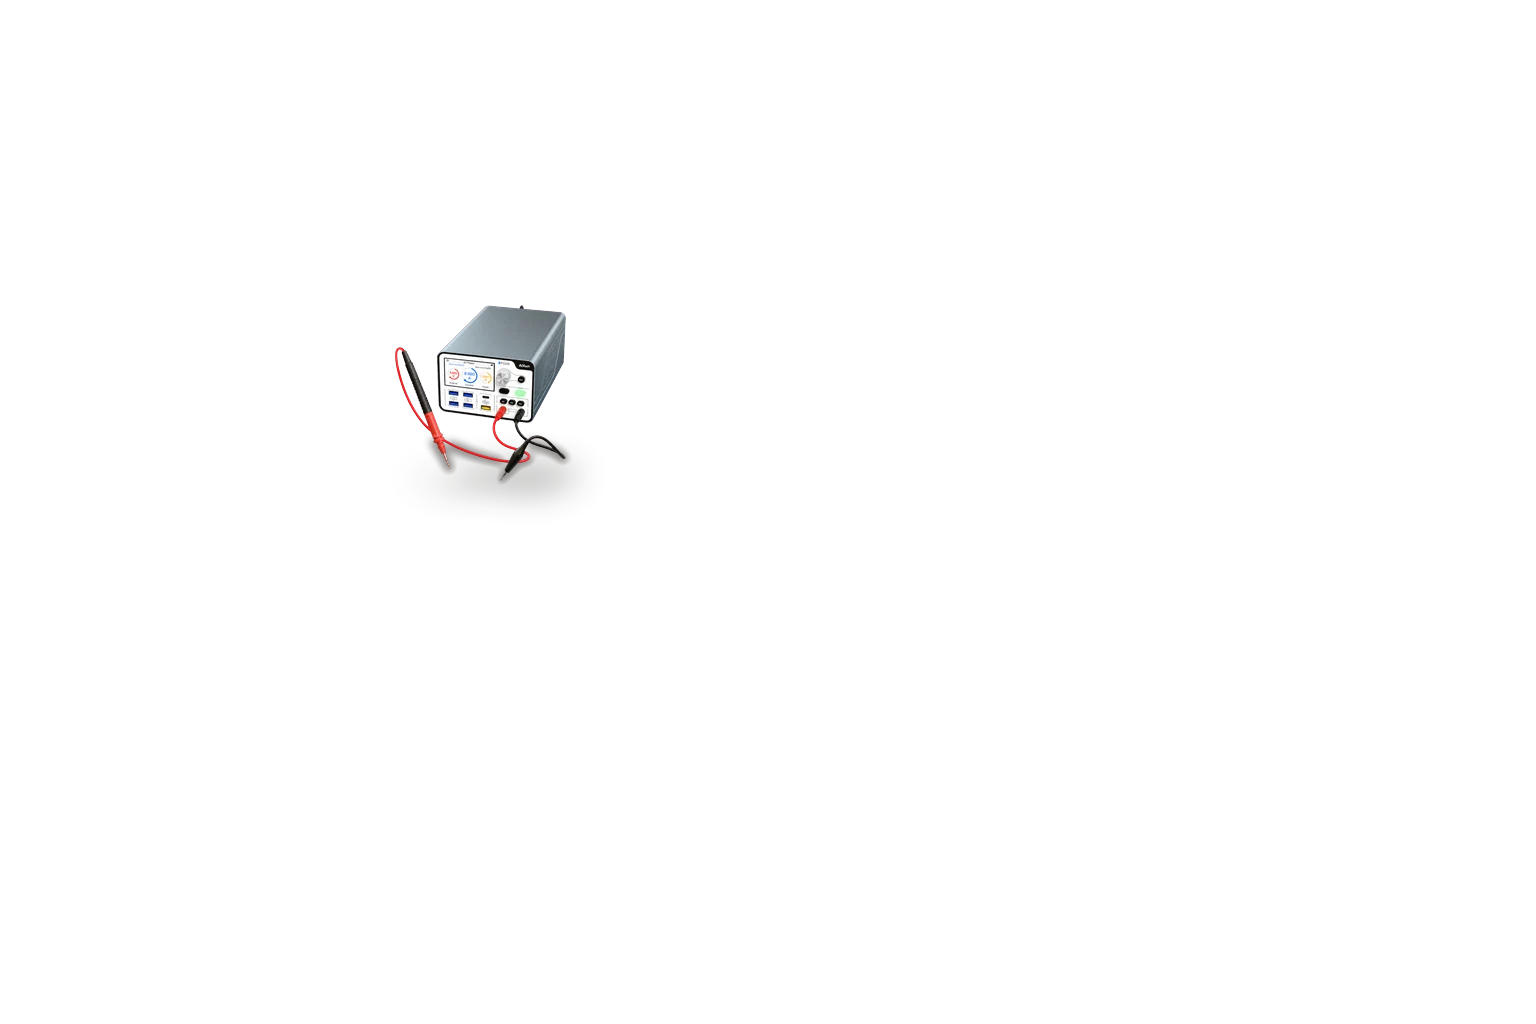
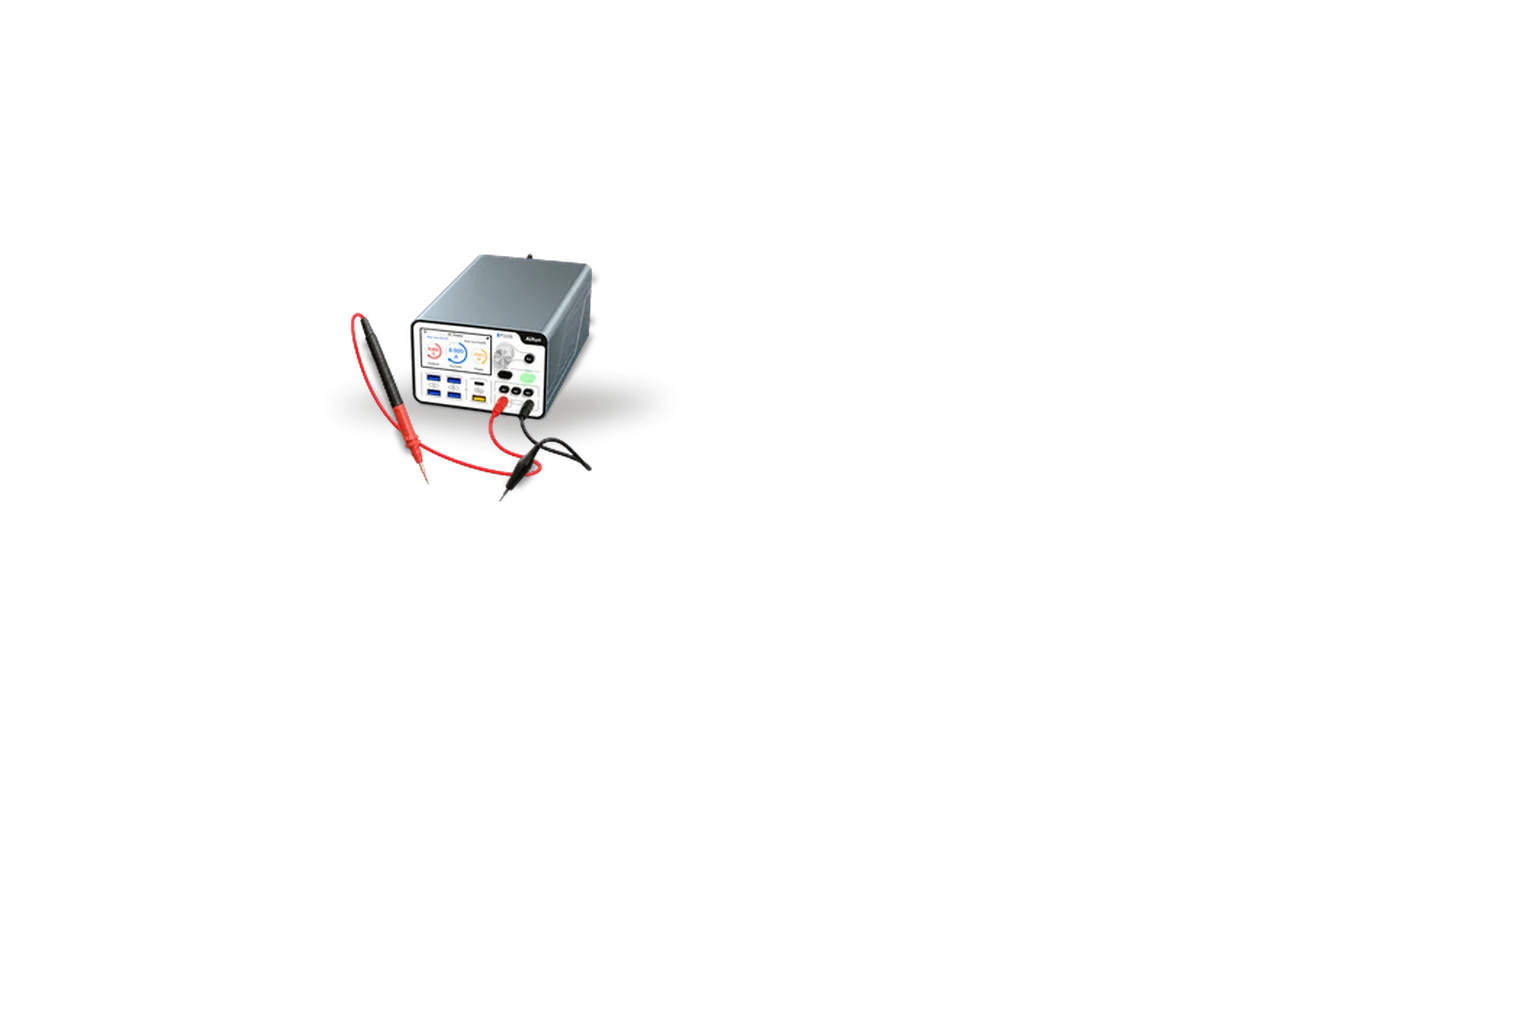
Tezgâh demosu: gölgeler 3B'den, güç kaynağı büyüdü, T420D ve Mr Yang açısı düzeltildi, cımbızlık sıcak havanın önünden alındı
Claude-Session: https://claude.ai/code/session_011syV1jmTXFg4q8NMM3VBGr

Changed region(s): [[0.2188, 0.25, 0.4375, 0.5]]

diff --git a/tools/tezgah/demo-gercek/index.html b/tools/tezgah/demo-gercek/index.html
@@ -62,7 +62,7 @@ h1{font-size:22px;letter-spacing:-.02em;margin:0}.lead{margin:0 0 8px;color:var(
 <script>
 // Katman sırası: arkadan öne. z = dokunma alanı (sahne %'si; sahne üstten %24.3 kırpık gösterilir).
 const SLOTS=[
- {k:'guc',ad:'Güç kaynağı',z:[28.5, 30.0, 36.7, 41.1],opts:[{id:1996,n:'SUGON 3005PM (30V 5A)',p:100},{id:1916,n:'Aixun P3208 (32V 8A)',p:190}]},
+ {k:'guc',ad:'Güç kaynağı',z:[27.5, 25.0, 37.8, 41.5],opts:[{id:1996,n:'SUGON 3005PM (30V 5A)',p:100},{id:1916,n:'Aixun P3208 (32V 8A)',p:190}]},
  {k:'sicak',ad:'Sıcak hava',z:[16.2, 35.4, 35.0, 67.6],opts:[{id:3066,n:'Quick 861 Pro Max (1300W)',p:330},{id:2671,n:'SUGON 8650 PRO (1300W)',p:270}]},
  {k:'mikro',ad:'Mikroskop',z:[38.4, 31.8, 58.6, 76.1],opts:[{id:2913,n:'MY-7S Mikroskop',p:280},{id:3030,n:'Mr. Yang 85 Ultra Mikroskop',p:340}]},
  {k:'havya',ad:'Havya',z:[59.0, 52.2, 74.8, 89.0],opts:[{id:835,n:'JBC CD-2 İstasyonlu Havya',p:585},{id:2745,n:'Aixun T420D İstasyonlu Havya',p:300}]},

diff --git a/tools/tezgah/cizim/gercek_katman.py b/tools/tezgah/cizim/gercek_katman.py
@@ -8,12 +8,31 @@ meta = json.load(open('/home/claude/svg3d/poz/kirp.json'))
 bg = Image.open(f'{G}/bos.png').convert('RGBA')
 bg.convert('RGB').save(f'{OUT}/taban.webp', quality=86)
 
+SC = {'guc': 1.45}
+SRC = {'mikro-3030': '/home/claude/foto/3030.png'}
+SHEAR = {'havya-2745': .07, 'mikro-3030': .05}
+def scale_about(im, k, anchor):
+    ax, ay = anchor; w, h = im.size
+    big = im.resize((round(w*k), round(h*k)), Image.LANCZOS)
+    out = Image.new(im.mode, (w, h), 0 if im.mode == 'L' else (0, 0, 0, 0))
+    out.paste(big, (round(ax - ax*k), round(ay - ay*k)))
+    return out
+
+OPEN = {'guc': 31}
 def layer(slot, pid):
     bx, by, s = meta[f'{slot}-{pid}']
-    L = Image.open(f'{G}/{slot}-{pid}.png').convert('RGBA').resize((s, s), Image.LANCZOS)
+    src = SRC.get(f'{slot}-{pid}', f'{G}/{slot}-{pid}.png')
+    L = Image.open(src).convert('RGBA')
+    if src != f'{G}/{slot}-{pid}.png':      # kesilmiş ürün görseli: kare tuvale ortala
+        c = Image.new('RGBA', (max(L.size),)*2, (0, 0, 0, 0)); c.paste(L, ((c.width-L.width)//2, (c.height-L.height)//2)); L = c
+    L = L.resize((s, s), Image.LANCZOS)
+    sh = SHEAR.get(f'{slot}-{pid}', 0)
+    if sh:   # sahnenin açısına uydur: yatay kenarlar sağa doğru hafif aşağı
+        pad = int(abs(sh)*s) + 4; big = Image.new('RGBA', (s, s + 2*pad), (0, 0, 0, 0)); big.paste(L, (0, pad)); cx = s/2
+        L = big.transform(big.size, Image.AFFINE, (1, 0, 0, -sh, 1, sh*cx), Image.BICUBIC).crop((0, pad, s, s + pad))
     def body(a):   # gövde kutusu: ince kablo/kalem/hortum açma işlemiyle silinir, en büyük parça
         from scipy import ndimage
-        m = ndimage.binary_opening(a > 128, structure=np.ones((13, 13)))
+        m = ndimage.binary_opening(a > 128, structure=np.ones((OPEN.get(slot, 13),)*2))
         lab, n = ndimage.label(m); sz = ndimage.sum(m, lab, range(1, n+1)); m = lab == (int(np.argmax(sz)) + 1)
         ys, xs = np.where(m); return xs.min(), ys.min(), xs.max(), ys.max()
     la = np.asarray(L)[..., 3]; g0, g1, g2, g3 = body(la)
@@ -23,21 +42,23 @@ def layer(slot, pid):
     gx, gy = (g0+g2)/2*k, g3*k                           # gövde alt-orta → çizimdeki alt-orta
     ox, oy = round((p0+p2)/2 - gx), round(p3 - gy)
     full = Image.new('RGBA', (W, H), (0, 0, 0, 0)); full.paste(L, (ox, oy), L)
+    anchor = ((p0+p2)/2, p3)
+    if SC.get(slot, 1) != 1: full = scale_about(full, SC[slot], anchor)
     A = np.asarray(full)[..., 3].astype(np.float32) / 255
-    rows = np.where(A.max(1) > .5)[0]; bot = rows.max()
-    # ortam gölgesi: silüet yere basık, sağa-aşağı (ışık sol üstten)
-    ys, xs = np.where(A > .5); x0, x1 = xs.min(), xs.max()
-    sil = Image.fromarray((A[ys.min():bot+1, x0:x1+1]*255).astype(np.uint8)).resize((x1-x0+1, max(4, (bot-ys.min())//6)))
-    sh = Image.new('L', (W, H), 0); sh.paste(sil, (x0 + 14, bot - sil.height//2 + 2))
-    sh = sh.filter(ImageFilter.GaussianBlur(16)).point(lambda v: int(v*.42))
-    # temas gölgesi: her sütunun en alt opak noktası (gövdenin tabanına yakın olanlar)
+    ys, xs = np.where(A > .5); x0, x1 = xs.min(), xs.max(); bot = ys.max()
+    sh3 = Image.open(f'/tmp/sh-{slot}-{pid}.png').convert('RGBA').split()[3]          # 3B sahnenin gölgesi
+    if SC.get(slot, 1) != 1: sh3 = scale_about(sh3, SC[slot], anchor)
+    sha = np.asarray(sh3).astype(np.float32) * .9
+    # temas: gövdenin masaya değdiği alt kenarda ince koyuluk
+    from scipy import ndimage
+    bm = ndimage.binary_opening(A > .5, structure=np.ones((9, 9)))
     ct = np.zeros((H, W), np.float32)
     for c in range(x0, x1+1, 2):
-        col = np.where(A[:, c] > .5)[0]
-        if len(col) and col.max() > bot - 40: y = col.max(); ct[max(0, y-3):y+5, max(0, c-4):c+5] = 1
-    ct = Image.fromarray((ct*255).astype(np.uint8)).filter(ImageFilter.GaussianBlur(4)).point(lambda v: int(v*.55))
-    sha = np.maximum(np.asarray(sh), np.asarray(ct)).astype(np.uint8)
-    shadow = Image.new('RGBA', (W, H), (24, 20, 16, 0)); shadow.putalpha(Image.fromarray(sha))
+        col = np.where(bm[:, c])[0]
+        if len(col): y = col.max(); ct[max(0, y-2):y+4, max(0, c-3):c+4] = 1
+    ct = np.asarray(Image.fromarray((ct*255).astype(np.uint8)).filter(ImageFilter.GaussianBlur(3))).astype(np.float32) * .5
+    sha = np.clip(np.maximum(sha, ct), 0, 255).astype(np.uint8)
+    shadow = Image.new('RGBA', (W, H), (20, 17, 14, 0)); shadow.putalpha(Image.fromarray(sha))
     out = Image.alpha_composite(shadow, full)
     out.save(f'{OUT}/{slot}-{pid}.webp', quality=88, method=6)
     # küçük resim
@@ -45,7 +66,7 @@ def layer(slot, pid):
     return out
 
 # ön katman: gerçek masadaki öndeki küçük eşyalar (cihazların önünde kalsın)
-on = Image.open('/tmp/on.png').convert('RGBA'); m = Image.fromarray((np.asarray(on)[..., 3] > 30).astype(np.uint8)*255)
+on = Image.open('/tmp/on.png').convert('RGBA'); _a = np.asarray(on)[..., 3] > 30; _a[:, :482] = False; m = Image.fromarray(_a.astype(np.uint8)*255)
 m = m.filter(ImageFilter.MaxFilter(9)).filter(ImageFilter.GaussianBlur(2))
 front = bg.copy(); front.putalpha(m); front.save(f'{OUT}/on.webp', quality=88, method=6)
 
